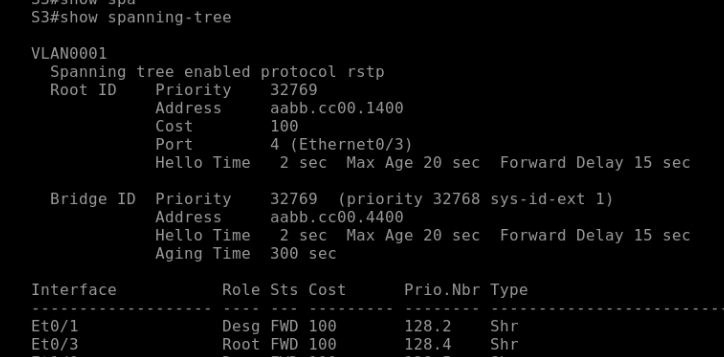
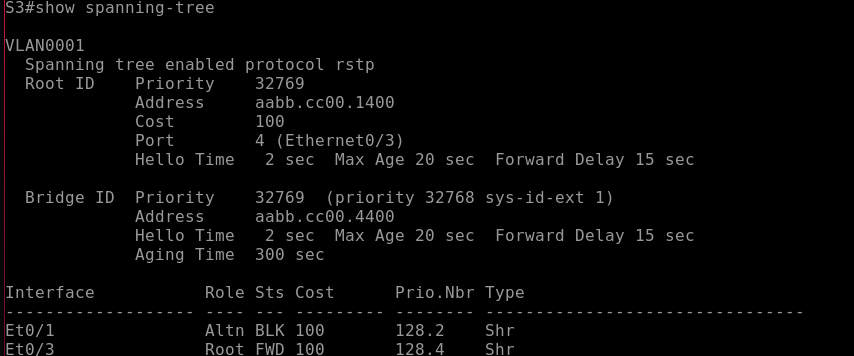
1

diff --git a/3_lab/README.md b/3_lab/README.md
@@ -87,55 +87,14 @@ S1(config-line)#logging synchronousip a
 + Корневой порт это порт который имееет кратчайший путь до корневого моста.
 
 Какие порты на коммутаторе являются назначенными портам?  
-+ Это порты не являющиеся root портами и направлены от рута.
++ Это порты не являющиеся root портами, альтернативными портами и направлены от рута.
 
 Какой порт отображается в качестве альтернативного и в настоящее время заблокирован? 
- 
-    
+В случае когда на коммутатор пришла BPDU с изменением топологии. Коммутатор выбирает альтернатинвый порт,
+ который может заменить корневой порт в случае выхода из строя основного канала,  исходя:  
++ из стоимости BID соседнего(их) коммутатора
++ из приоритета порта
++ из названия порта у вышестояшего коммутатора в дереве
 
 
-
-
-
-
-
-
-
-Коммутатор S2   
-![alt text](https://github.com/rain360z/otus-networks/blob/main/3_lab/pictures/6.PNG)
-
-Коммутатор S3  
-![alt text](https://github.com/rain360z/otus-networks/blob/main/3_lab/pictures/7.PNG)
-
-Приоритеты у всех коммутаторов одинаковые. Корневой мост будет выбираться на основании MAC-адресов. 
-В нашем случае корневой мост S1  
-8 рис
-
-Определим роли и состояние активных портов на каждом коммутаторе
-
-
-
-
-С учетом выходных данных, поступающих с коммутаторов, ответьте на следующие вопросы.
-Какой коммутатор является корневым мостом?  
-+ S1
-
-Почему этот коммутатор был выбран протоколом spanning-tree в качестве корневого моста?
-+ Приоритеты у коммутаторов одинаковые. А вот Maс у S1 меньше. Соответственно BID идентификатор тоже.Он и будет корневым.
-
-Какие порты на коммутаторе являются корневыми портами?
-+ Корневой порт это порт который имееет кратчайший путь до корневого моста.
-
-Какие порты на коммутаторе являются назначенными портам?  
-+ Это порты не являющиеся root портами и направлены от рута.
-
-Какой порт отображается в качестве альтернативного и в настоящее время заблокирован? 
- 
-    
-
-
-
-
-
-
-
+#### Часть 3:	Наблюдение за процессом выбора протоколом STP порта, исходя из стоимости портов
